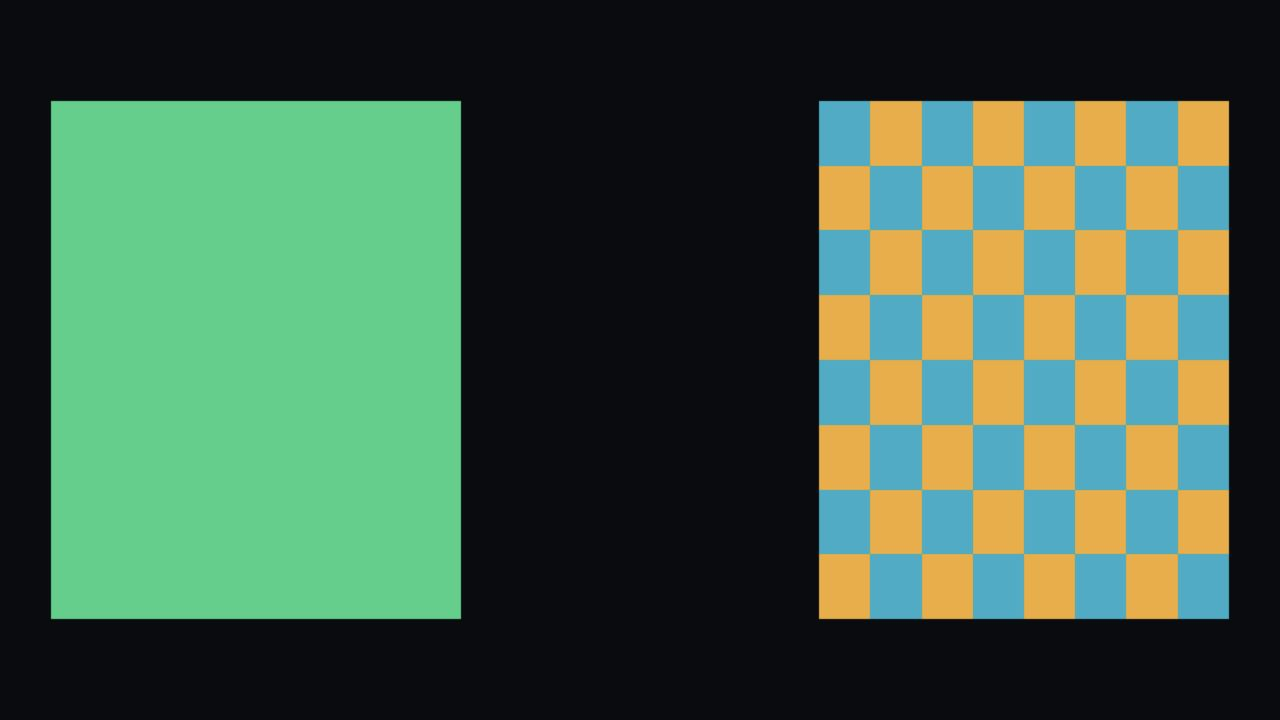
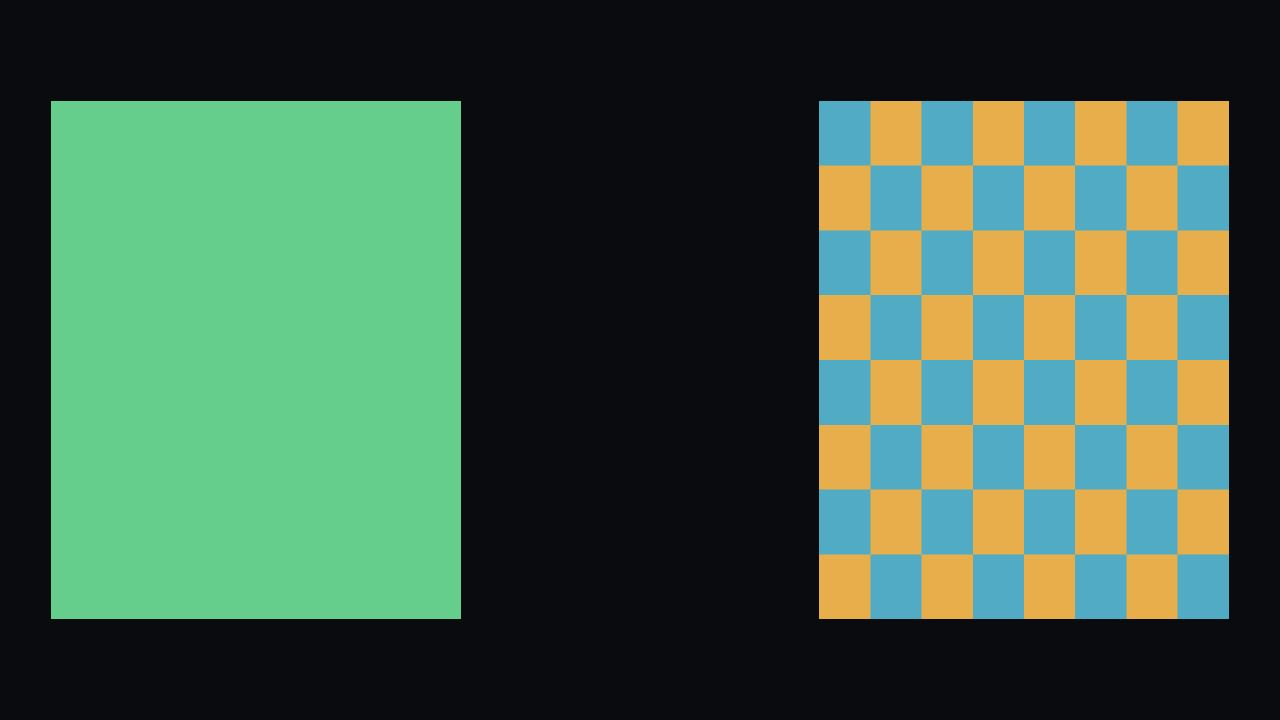
Refresh readiness completion evidence

diff --git a/docs/review/scratch-readiness-policy-execution-audit.md b/docs/review/scratch-readiness-policy-execution-audit.md
@@ -26,12 +26,16 @@ Decision: `docs/decisions/ADR-028-scratch-readiness-policy-execution.md`
 
 ## Browser Verification Evidence
 
-Verified at feature commit `3c269a6` in WebGPU-capable Chromium against `http://127.0.0.1:5173/readinessPolicies/`. Desktop and mobile reloads reached `canvas[data-status="ready"]` without adding warning/error entries. A final clean browser session independently reached `ready` with an empty warning/error log array.
+Verified at feature commit `8e5b37f` in WebGPU-capable Chromium against `http://127.0.0.1:5173/readinessPolicies/`. Desktop and mobile reloads reached `canvas[data-status="ready"]`, each with an empty browser warning/error log array.
 
-- Desktop viewport and canvas: `1280 x 720`. Tolerance-based screenshot classification found `99.3685%` fallback green in the left sample, `100%` background in the skipped-command center sample, and `46.5006%` cyan plus `46.4803%` orange in the preserved checker sample. Red and magenta ratios were `0`.
+- Desktop viewport/CSS canvas: `1280 x 720`; backing canvas: `2560 x 1440`. Tolerance-based screenshot classification found `99.7867%` fallback green in the left sample, `100%` background in the skipped-command center sample, and `46.1126%` cyan plus `45.9960%` orange in the preserved checker sample. Red and magenta ratios were `0`.
 - Mobile viewport and canvas: `390 x 844`. Classification found `97.9064%` fallback green, `100%` skipped-command background, and `41.7316%` cyan plus `41.6918%` orange in the preserved checker sample. Red and magenta ratios were `0`.
[3 lines of base64/hex data omitted]
+
+## Adversarial Review Evidence
+
+Four fresh-context issues-only review rounds were reconciled against source and tests. Valid findings covered duplicate declared-write epochs, post-construction lifecycle changes, incomplete hard-failure attempt facts, inaccurate test/browser evidence, color-target count compatibility, fallback diagnostic code boundaries, missing resource subjects, selected fallback dependency causes, and resolved resource-conflict provenance. Every valid finding received a focused regression before implementation and a full regression run afterward. The final narrow re-review of `8e5b37f` reported no actionable findings; its residual full-suite/typecheck/browser gaps were executed independently by the main verification flow.
 
 ## Scope Check
 

diff --git a/docs/superpowers/plans/2026-07-10-scratch-readiness-policy-execution.md b/docs/superpowers/plans/2026-07-10-scratch-readiness-policy-execution.md
@@ -163,6 +163,6 @@ export type CommandReadinessDescriptor<FallbackCommand> =
 - [x] Start the Vite dev server and load `readinessPolicies` in WebGPU-capable Chromium.
 - [x] Verify `data-status=ready`, no console/page errors, a nonblank screenshot, expected fallback pixels, absent skipped-command region, and preserved skip-pass content.
 - [ ] Run `npm run typecheck`, focused policy tests, `npm test`, `npm run build`, `git diff --check`, source-only scans, no-readback scan, and no-material scan.
-- [ ] Review the complete branch against every Goal requirement. Perform fresh-context adversarial review, fix all valid findings, rerun affected checks, and re-review before claiming completion.
+- [x] Review the complete branch against every Goal requirement. Perform fresh-context adversarial review, fix all valid findings, rerun affected checks, and re-review before claiming completion.
 - [ ] Confirm the eight-row audit, public exports, documentation status, execution/resource/producer ledger consistency, and exact branch history.
 - [ ] Use `finishing-a-development-branch`, fast-forward merge into `dev-feature`, rerun tests on the merged result, remove the worktree, delete the feature branch, and confirm only local `main` and `dev-feature` remain.